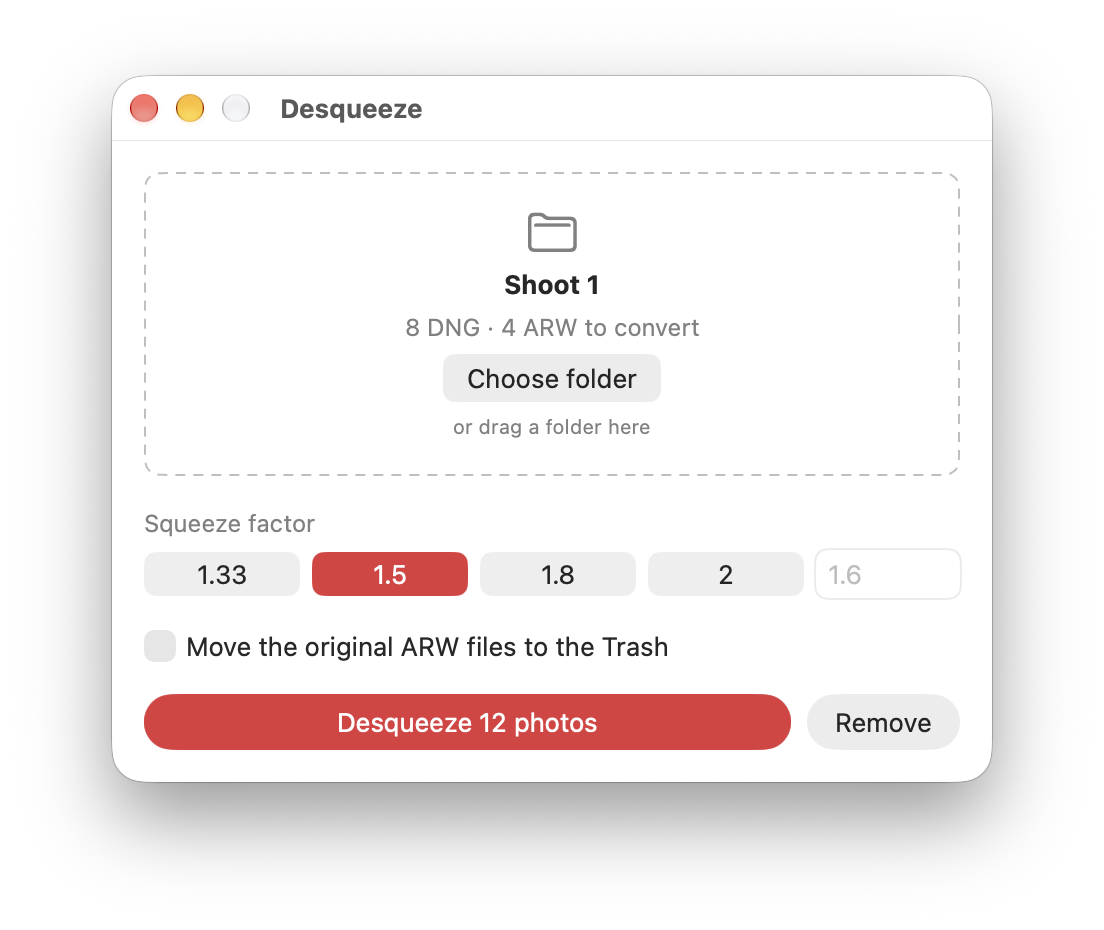
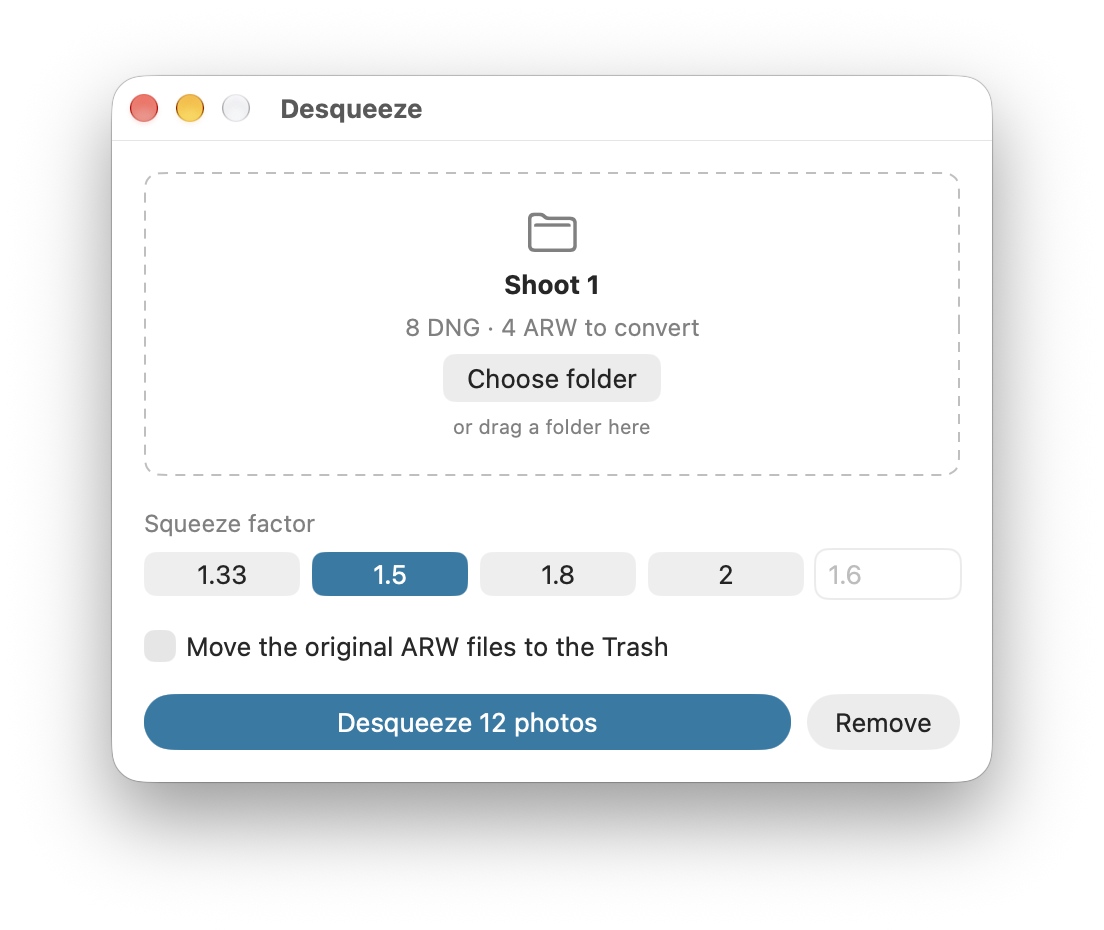
site, docs: the ten screenshots with the accent, and what the hand checks showed
The five states of the window, light and dark, from the app that
make_release.sh --local made, on a scratch disk image. Design 17 gets the
measured dark ground and the result of each hand check. The scratch image
of the screenshot steps is 2 GB: 700 MB was full in the fourth run.

Changed region(s): [[0.1232, 0.7484, 0.7391, 0.8108], [0.2772, 0.5925, 0.4312, 0.6548]]

diff --git a/docs/superpowers/specs/2026-10-05-desqueeze-design.md b/docs/superpowers/specs/2026-10-05-desqueeze-design.md
@@ -1606,7 +1606,9 @@ whose accent is red.
 - The app uses one value in both appearances: the light fill, `#157BA6`.
   White on it is 4.76:1. The app does not use the dark fill, because macOS
   draws white text on the accent in its own controls, and white on
-  `#4595BC` is 3.34:1.
+  `#4595BC` is 3.34:1. The dark ground of the window measures `#1D1E20`
+  on a screenshot, and the light fill is 3.51:1 on it, over the 3:1 for a
+  control.
 - macOS uses the `AccentColor` of an app only when the accent of the Mac is
   Multicolor. Any other choice wins over it. Proof: a build with the color
   asset and no other change showed the selected preset in red. So the app
@@ -1711,13 +1713,19 @@ The three stops of the icon script were tried too.
 
 By hand:
 
-- On a Mac with a red accent: the presets, the Run button, the checkbox,
-  the progress bar and the drop target are Chalcanthite, in both
-  appearances. "Choose folder", "Remove" and "Cancel" are grey.
+- On a Mac with a red accent: the presets, the Run button, the checkbox
+  and the progress bar are Chalcanthite, in both appearances. "Choose
+  folder", "Remove" and "Cancel" are grey. This was seen on 2026-10-12, in
+  the app that `scripts/make_release.sh --local` made. The drop target was
+  not seen: no folder was dragged. It uses the same named color.
 - The site in a browser, in both appearances: the variables of 17.1 have
   their values, and a link in an article has the ink.
-- The ten screenshots again ("Take the screenshots again").
+- The ten screenshots again ("Take the screenshots again"). Done on
+  2026-10-12.
 - The icon in the Dock, in Finder, and in the window of the disk image.
+  On 2026-10-12 the icon was read as macOS draws it for the local app, at
+  32, 128 and 512 points. The Dock, a Finder window and the disk image
+  wait for the release build.
 
 ### 17.5 Known limits
 

diff --git a/docs/changing-things.md b/docs/changing-things.md
@@ -485,9 +485,14 @@ Take all of them again when the window changes, so that they stay one set.
    Prove that on one file first.
 
    ```bash
-   hdiutil create -size 700m -fs APFS -volname Card card.dmg
+   hdiutil create -size 2g -fs APFS -volname Card card.dmg
    hdiutil attach -nobrowse card.dmg
    ```
+
+   Each run puts the backups of its DNG files into the Trash of the
+   image, about 200 MB for the 12 photos with the box for the originals
+   on. An image of 700 MB was full in the fourth run, and that run failed
+   with "No space left on device". No original was lost.
 
 2. Make a folder named "Shoot 1" on it. Put 8 DNG files and 4 ARW files
    in it, under plain names such as `DSC04093.dng`. Copies of one photo are
